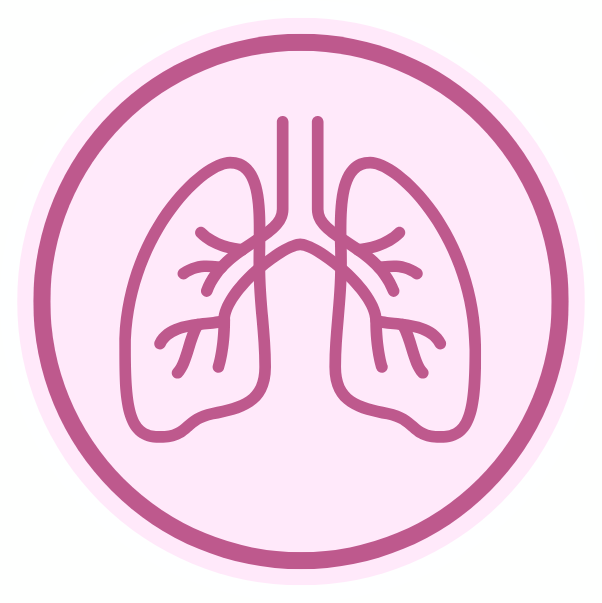
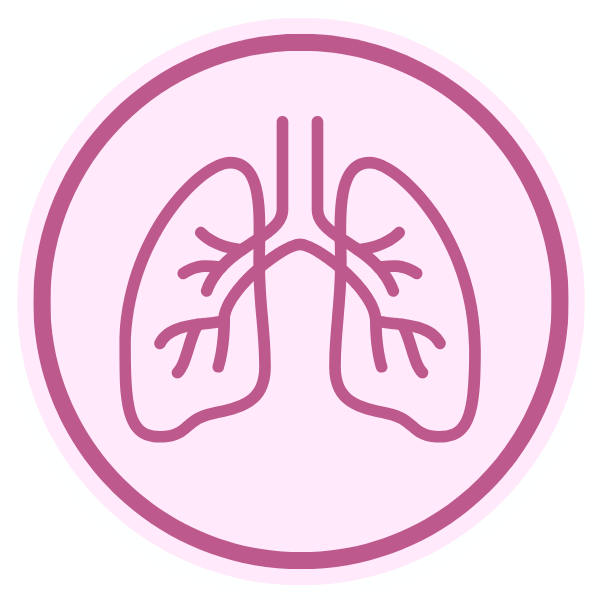
updates ahead of 5/28/2026 meeting

Changed region(s): [[0.5083, 0.209, 0.5382, 0.3284], [0.7774, 0.5373, 0.8073, 0.6269], [0.5382, 0.5672, 0.5681, 0.597]]

diff --git a/Environment.html b/Environment.html
@@ -272,12 +272,12 @@
   <div class="t2-kpi-block">
     <span class="stat-number">68 ED Visits</span>
     <span class="trend-indicator bad"
-          aria-label="The overall trend is increasingwhich is unfavorable."
-          area-hidden="false">
+          aria-label="The overall trend is increasing which is unfavorable."
+          aria-hidden="false">
       ▲
     </span>
     <span class="visually-hidden">
-      The overall trend is increasingwhich is unfavorable.
+      The overall trend is increasing which is unfavorable.
     </span>
     <span class="stat-date">2025</span>
   </div>
@@ -361,7 +361,7 @@
       </div>
 
       
-        <p class="current-description">Cold outdoor temperatures can increase risk for health emergencies such as hypothermia and frostbite. People higher risk for cold-related illnesses include older adults, infancts, people experiencing houselessness or with inadequate home heating and participants in outdoor work or other activities.</p>
+        <p class="current-description">Cold outdoor temperatures can increase risk for health emergencies such as hypothermia and frostbite. People higher risk for cold-related illnesses include older adults, infants, people experiencing houselessness or with inadequate home heating and participants in outdoor work or other activities.</p>
       
 
     </div>
@@ -498,12 +498,12 @@ CDC-supported web-based tool that allows public health officials to analyze and 
   <div class="t2-kpi-block">
     <span class="stat-number">83 ED Visits</span>
     <span class="trend-indicator bad"
-          aria-label="The overall trend is increasingwhich is unfavorable."
-          area-hidden="false">
+          aria-label="The overall trend is increasing which is unfavorable."
+          aria-hidden="false">
       ▲
     </span>
     <span class="visually-hidden">
-      The overall trend is increasingwhich is unfavorable.
+      The overall trend is increasing which is unfavorable.
     </span>
     <span class="stat-date">2025</span>
   </div>
@@ -727,12 +727,12 @@ CDC-supported web-based tool that allows public health officials to analyze and 
   <div class="t2-kpi-block">
     <span class="stat-number">4.1 per 1,000 live births</span>
     <span class="trend-indicator good"
-          aria-label="The overall trend is decreasingwhich is favorable."
-          area-hidden="false">
+          aria-label="The overall trend is decreasing which is favorable."
+          aria-hidden="false">
       ▼
     </span>
     <span class="visually-hidden">
-      The overall trend is decreasingwhich is favorable.
+      The overall trend is decreasing which is favorable.
     </span>
     <span class="stat-date">2019-2023</span>
   </div>
@@ -960,12 +960,12 @@ CDC-supported web-based tool that allows public health officials to analyze and 
   <div class="t2-kpi-block">
     <span class="stat-number">7.2</span>
     <span class="trend-indicator flat"
-          aria-label="The overall trend is neither increasing nor decreasingwhich is ."
-          area-hidden="false">
+          aria-label="The overall trend is neither increasing nor decreasing which is ."
+          aria-hidden="false">
       ■
     </span>
     <span class="visually-hidden">
-      The overall trend is neither increasing nor decreasingwhich is .
+      The overall trend is neither increasing nor decreasing which is .
     </span>
     <span class="stat-date">2021-2023</span>
   </div>
@@ -1185,12 +1185,12 @@ CDC-supported web-based tool that allows public health officials to analyze and 
   <div class="t2-kpi-block">
     <span class="stat-number">6.3 percent</span>
     <span class="trend-indicator good"
-          aria-label="The overall trend is decreasingwhich is favorable."
-          area-hidden="false">
+          aria-label="The overall trend is decreasing which is favorable."
+          aria-hidden="false">
       ▼
     </span>
     <span class="visually-hidden">
-      The overall trend is decreasingwhich is favorable.
+      The overall trend is decreasing which is favorable.
     </span>
     <span class="stat-date">2021-2023</span>
   </div>
@@ -1410,12 +1410,12 @@ CDC-supported web-based tool that allows public health officials to analyze and 
   <div class="t2-kpi-block">
     <span class="stat-number">15.9 per 100,000 population</span>
     <span class="trend-indicator flat"
-          aria-label="The overall trend is neither increasing nor decreasingwhich is ."
-          area-hidden="false">
+          aria-label="The overall trend is neither increasing nor decreasing which is ."
+          aria-hidden="false">
       ■
     </span>
     <span class="visually-hidden">
-      The overall trend is neither increasing nor decreasingwhich is .
+      The overall trend is neither increasing nor decreasing which is .
     </span>
     <span class="stat-date">2021-2023</span>
   </div>

diff --git a/onesies/indicator_2.html b/onesies/indicator_2.html
@@ -234,12 +234,12 @@
   <div class="t2-kpi-block">
     <span class="stat-number">68 ED Visits</span>
     <span class="trend-indicator bad"
-          aria-label="The overall trend is increasingwhich is unfavorable."
-          area-hidden="false">
+          aria-label="The overall trend is increasing which is unfavorable."
+          aria-hidden="false">
       ▲
     </span>
     <span class="visually-hidden">
-      The overall trend is increasingwhich is unfavorable.
+      The overall trend is increasing which is unfavorable.
     </span>
     <span class="stat-date">2025</span>
   </div>
@@ -323,7 +323,7 @@
       </div>
 
       
-        <p class="current-description">Cold outdoor temperatures can increase risk for health emergencies such as hypothermia and frostbite. People higher risk for cold-related illnesses include older adults, infancts, people experiencing houselessness or with inadequate home heating and participants in outdoor work or other activities.</p>
+        <p class="current-description">Cold outdoor temperatures can increase risk for health emergencies such as hypothermia and frostbite. People higher risk for cold-related illnesses include older adults, infants, people experiencing houselessness or with inadequate home heating and participants in outdoor work or other activities.</p>
       
 
     </div>

diff --git a/onesies/indicator_6.html b/onesies/indicator_6.html
@@ -234,12 +234,12 @@
   <div class="t2-kpi-block">
     <span class="stat-number">143.4 per 100,000 population</span>
     <span class="trend-indicator flat"
-          aria-label="The overall trend is neither increasing nor decreasingwhich is ."
-          area-hidden="false">
+          aria-label="The overall trend is neither increasing nor decreasing which is ."
+          aria-hidden="false">
       ■
     </span>
     <span class="visually-hidden">
-      The overall trend is neither increasing nor decreasingwhich is .
+      The overall trend is neither increasing nor decreasing which is .
     </span>
     <span class="stat-date">2021-2023</span>
   </div>

diff --git a/Resp.html b/Resp.html
@@ -272,12 +272,12 @@
   <div class="t2-kpi-block">
     <span class="stat-number">15.9 per 100,000 population</span>
     <span class="trend-indicator flat"
-          aria-label="The overall trend is neither increasing nor decreasingwhich is ."
-          area-hidden="false">
+          aria-label="The overall trend is neither increasing nor decreasing which is ."
+          aria-hidden="false">
       ■
     </span>
     <span class="visually-hidden">
-      The overall trend is neither increasing nor decreasingwhich is .
+      The overall trend is neither increasing nor decreasing which is .
     </span>
     <span class="stat-date">2021-2023</span>
   </div>

diff --git a/onesies/indicator_7.html b/onesies/indicator_7.html
@@ -234,12 +234,12 @@
   <div class="t2-kpi-block">
     <span class="stat-number">15.9 per 100,000 population</span>
     <span class="trend-indicator flat"
-          aria-label="The overall trend is neither increasing nor decreasingwhich is ."
-          area-hidden="false">
+          aria-label="The overall trend is neither increasing nor decreasing which is ."
+          aria-hidden="false">
       ■
     </span>
     <span class="visually-hidden">
-      The overall trend is neither increasing nor decreasingwhich is .
+      The overall trend is neither increasing nor decreasing which is .
     </span>
     <span class="stat-date">2021-2023</span>
   </div>

diff --git a/onesies/indicator_8.html b/onesies/indicator_8.html
@@ -234,12 +234,12 @@
   <div class="t2-kpi-block">
     <span class="stat-number">9.0 per 100,000 population</span>
     <span class="trend-indicator flat"
-          aria-label="The overall trend is neither increasing nor decreasingwhich is ."
-          area-hidden="false">
+          aria-label="The overall trend is neither increasing nor decreasing which is ."
+          aria-hidden="false">
       ■
     </span>
     <span class="visually-hidden">
-      The overall trend is neither increasing nor decreasingwhich is .
+      The overall trend is neither increasing nor decreasing which is .
     </span>
     <span class="stat-date">2021-2023</span>
   </div>

diff --git a/onesies/indicator_5.html b/onesies/indicator_5.html
@@ -234,12 +234,12 @@
   <div class="t2-kpi-block">
     <span class="stat-number">7.2</span>
     <span class="trend-indicator flat"
-          aria-label="The overall trend is neither increasing nor decreasingwhich is ."
-          area-hidden="false">
+          aria-label="The overall trend is neither increasing nor decreasing which is ."
+          aria-hidden="false">
       ■
     </span>
     <span class="visually-hidden">
-      The overall trend is neither increasing nor decreasingwhich is .
+      The overall trend is neither increasing nor decreasing which is .
     </span>
     <span class="stat-date">2021-2023</span>
   </div>

diff --git a/onesies/indicator_3.html b/onesies/indicator_3.html
@@ -234,12 +234,12 @@
   <div class="t2-kpi-block">
     <span class="stat-number">4.1 per 1,000 live births</span>
     <span class="trend-indicator good"
-          aria-label="The overall trend is decreasingwhich is favorable."
-          area-hidden="false">
+          aria-label="The overall trend is decreasing which is favorable."
+          aria-hidden="false">
       ▼
     </span>
     <span class="visually-hidden">
-      The overall trend is decreasingwhich is favorable.
+      The overall trend is decreasing which is favorable.
     </span>
     <span class="stat-date">2019-2023</span>
   </div>

diff --git a/Behavioral.html b/Behavioral.html
@@ -272,12 +272,12 @@
   <div class="t2-kpi-block">
     <span class="stat-number">18.0 per 100,000</span>
     <span class="trend-indicator bad"
-          aria-label="The overall trend is increasingwhich is unfavorable."
-          area-hidden="false">
+          aria-label="The overall trend is increasing which is unfavorable."
+          aria-hidden="false">
       ▲
     </span>
     <span class="visually-hidden">
-      The overall trend is increasingwhich is unfavorable.
+      The overall trend is increasing which is unfavorable.
     </span>
     <span class="stat-date">2024</span>
   </div>

diff --git a/onesies/indicator_9.html b/onesies/indicator_9.html
@@ -234,12 +234,12 @@
   <div class="t2-kpi-block">
     <span class="stat-number">18.0 per 100,000</span>
     <span class="trend-indicator bad"
-          aria-label="The overall trend is increasingwhich is unfavorable."
-          area-hidden="false">
+          aria-label="The overall trend is increasing which is unfavorable."
+          aria-hidden="false">
       ▲
     </span>
     <span class="visually-hidden">
-      The overall trend is increasingwhich is unfavorable.
+      The overall trend is increasing which is unfavorable.
     </span>
     <span class="stat-date">2024</span>
   </div>

diff --git a/onesies/indicator_1.html b/onesies/indicator_1.html
@@ -234,12 +234,12 @@
   <div class="t2-kpi-block">
     <span class="stat-number">83 ED Visits</span>
     <span class="trend-indicator bad"
-          aria-label="The overall trend is increasingwhich is unfavorable."
-          area-hidden="false">
+          aria-label="The overall trend is increasing which is unfavorable."
+          aria-hidden="false">
       ▲
     </span>
     <span class="visually-hidden">
-      The overall trend is increasingwhich is unfavorable.
+      The overall trend is increasing which is unfavorable.
     </span>
     <span class="stat-date">2025</span>
   </div>

diff --git a/onesies/indicator_4.html b/onesies/indicator_4.html
@@ -234,12 +234,12 @@
   <div class="t2-kpi-block">
     <span class="stat-number">6.3 percent</span>
     <span class="trend-indicator good"
-          aria-label="The overall trend is decreasingwhich is favorable."
-          area-hidden="false">
+          aria-label="The overall trend is decreasing which is favorable."
+          aria-hidden="false">
       ▼
     </span>
     <span class="visually-hidden">
-      The overall trend is decreasingwhich is favorable.
+      The overall trend is decreasing which is favorable.
     </span>
     <span class="stat-date">2021-2023</span>
   </div>
